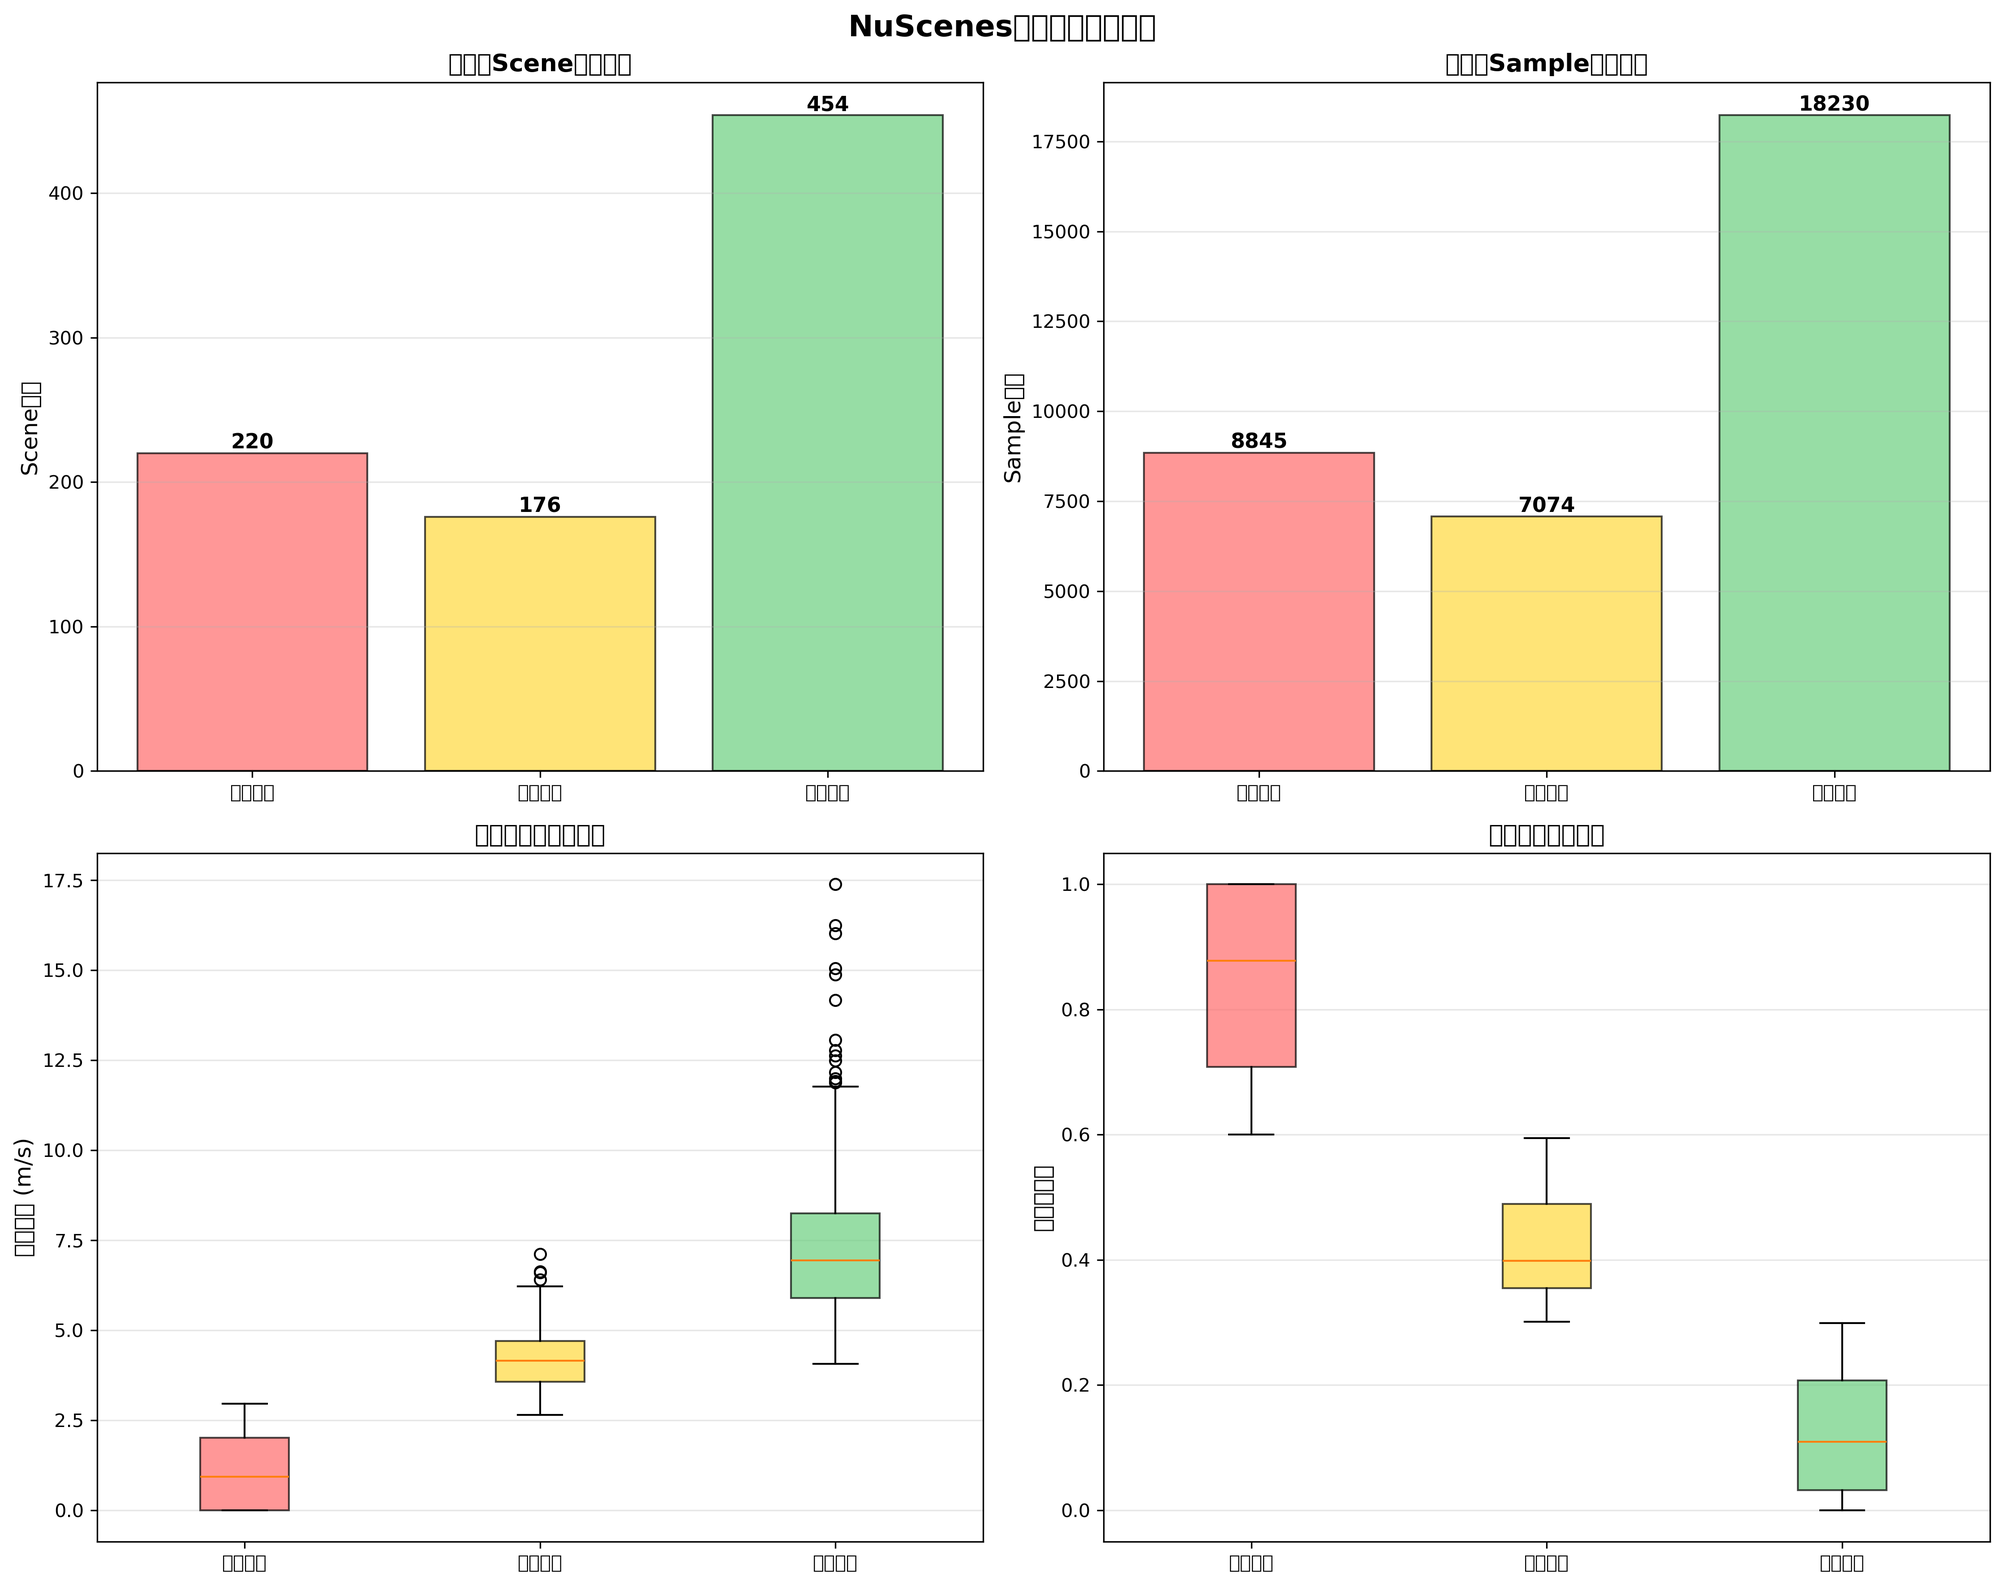
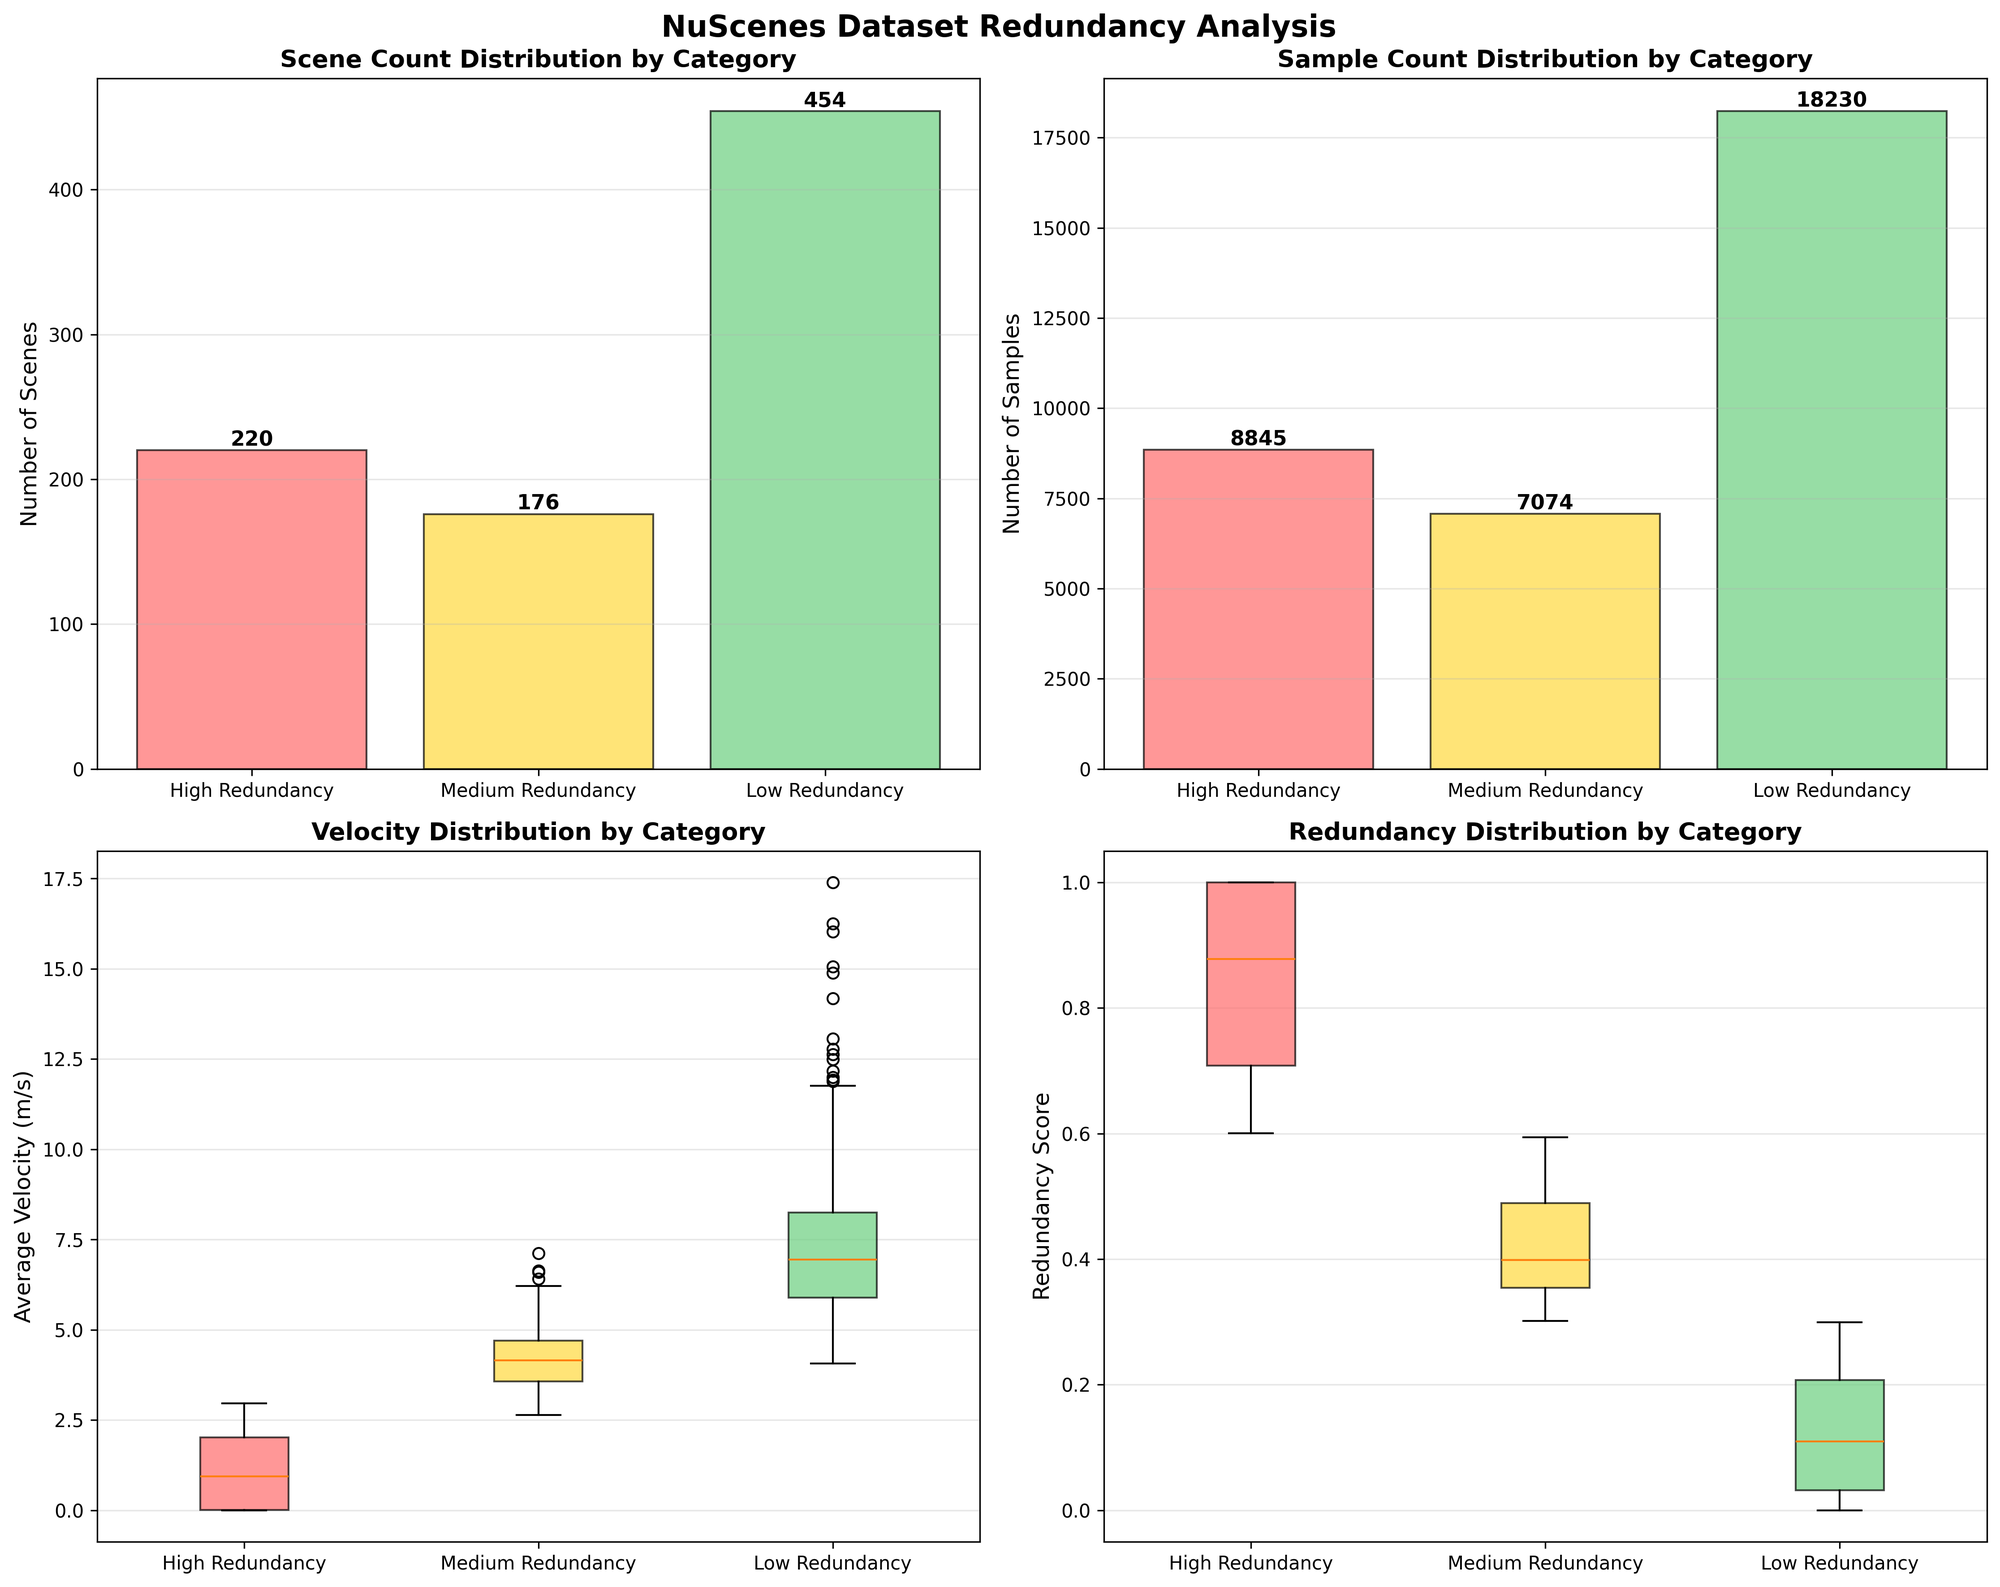
完善可视化

diff --git a/tools/visualize_redundancy.py b/tools/visualize_redundancy.py
@@ -1,7 +1,7 @@
 #!/usr/bin/env python3
 # -*- coding: utf-8 -*-
 """
-可视化NuScenes数据集的冗余度分析结果
+Visualize NuScenes dataset redundancy analysis results
 """
 
 import pickle
@@ -12,20 +12,20 @@ import matplotlib.pyplot as plt
 from matplotlib import rcParams
 import argparse
 
-# 设置中文字体
-rcParams['font.sans-serif'] = ['SimHei', 'DejaVu Sans']
+# Set font
+rcParams['font.sans-serif'] = ['DejaVu Sans', 'Arial']
 rcParams['axes.unicode_minus'] = False
 
 
 def load_split_result(result_path: str):
     """
-    加载划分结果
+    Load split result
     
     Args:
-        result_path: 结果文件路径（pkl或json）
+        result_path: Result file path (pkl or json)
         
     Returns:
-        划分结果字典
+        Split result dictionary
     """
     if result_path.endswith('.pkl'):
         with open(result_path, 'rb') as f:
@@ -34,46 +34,46 @@ def load_split_result(result_path: str):
         with open(result_path, 'r') as f:
             return json.load(f)
     else:
-        raise ValueError("不支持的文件格式，请使用.pkl或.json文件")
+        raise ValueError("Unsupported file format, please use .pkl or .json file")
 
 
 def plot_redundancy_distribution(split_result: dict, output_dir: str):
     """
-    绘制冗余度分布图
+    Plot redundancy distribution
     
     Args:
-        split_result: 划分结果
-        output_dir: 输出目录
+        split_result: Split result
+        output_dir: Output directory
     """
     fig, axes = plt.subplots(2, 2, figsize=(15, 12))
-    fig.suptitle('NuScenes数据集冗余度分析', fontsize=16, fontweight='bold')
+    fig.suptitle('NuScenes Dataset Redundancy Analysis', fontsize=16, fontweight='bold')
     
-    # 1. 各类别的scene数量分布
+    # 1. Scene count distribution by category
     ax1 = axes[0, 0]
-    categories = ['高冗余度', '中冗余度', '低冗余度']
+    categories = ['High Redundancy', 'Medium Redundancy', 'Low Redundancy']
     keys = ['high_redundancy', 'medium_redundancy', 'low_redundancy']
     scene_counts = [len(split_result[k]) for k in keys]
     colors = ['#ff6b6b', '#ffd93d', '#6bcf7f']
     
     bars = ax1.bar(categories, scene_counts, color=colors, alpha=0.7, edgecolor='black')
-    ax1.set_ylabel('Scene数量', fontsize=12)
-    ax1.set_title('各类别Scene数量分布', fontsize=13, fontweight='bold')
+    ax1.set_ylabel('Number of Scenes', fontsize=12)
+    ax1.set_title('Scene Count Distribution by Category', fontsize=13, fontweight='bold')
     ax1.grid(axis='y', alpha=0.3)
     
-    # 在柱子上添加数值
+    # Add count labels on bars
     for bar, count in zip(bars, scene_counts):
         height = bar.get_height()
         ax1.text(bar.get_x() + bar.get_width()/2., height,
                 f'{count}',
                 ha='center', va='bottom', fontsize=11, fontweight='bold')
     
-    # 2. 各类别的sample数量分布
+    # 2. Sample count distribution by category
     ax2 = axes[0, 1]
     sample_counts = [sum(s['num_samples'] for s in split_result[k]) for k in keys]
     
     bars = ax2.bar(categories, sample_counts, color=colors, alpha=0.7, edgecolor='black')
-    ax2.set_ylabel('Sample数量', fontsize=12)
-    ax2.set_title('各类别Sample数量分布', fontsize=13, fontweight='bold')
+    ax2.set_ylabel('Number of Samples', fontsize=12)
+    ax2.set_title('Sample Count Distribution by Category', fontsize=13, fontweight='bold')
     ax2.grid(axis='y', alpha=0.3)
     
     for bar, count in zip(bars, sample_counts):
@@ -82,7 +82,7 @@ def plot_redundancy_distribution(split_result: dict, output_dir: str):
                 f'{count}',
                 ha='center', va='bottom', fontsize=11, fontweight='bold')
     
-    # 3. 平均速率分布
+    # 3. Average velocity distribution
     ax3 = axes[1, 0]
     velocities_by_category = []
     for key in keys:
@@ -94,11 +94,11 @@ def plot_redundancy_distribution(split_result: dict, output_dir: str):
         patch.set_facecolor(color)
         patch.set_alpha(0.7)
     
-    ax3.set_ylabel('平均速率 (m/s)', fontsize=12)
-    ax3.set_title('各类别平均速率分布', fontsize=13, fontweight='bold')
+    ax3.set_ylabel('Average Velocity (m/s)', fontsize=12)
+    ax3.set_title('Velocity Distribution by Category', fontsize=13, fontweight='bold')
     ax3.grid(axis='y', alpha=0.3)
     
-    # 4. 冗余度分布
+    # 4. Redundancy score distribution
     ax4 = axes[1, 1]
     redundancies_by_category = []
     for key in keys:
@@ -110,29 +110,29 @@ def plot_redundancy_distribution(split_result: dict, output_dir: str):
         patch.set_facecolor(color)
         patch.set_alpha(0.7)
     
-    ax4.set_ylabel('冗余度分数', fontsize=12)
-    ax4.set_title('各类别冗余度分布', fontsize=13, fontweight='bold')
+    ax4.set_ylabel('Redundancy Score', fontsize=12)
+    ax4.set_title('Redundancy Distribution by Category', fontsize=13, fontweight='bold')
     ax4.grid(axis='y', alpha=0.3)
     
     plt.tight_layout()
     output_path = os.path.join(output_dir, 'redundancy_distribution.png')
     plt.savefig(output_path, dpi=300, bbox_inches='tight')
-    print(f"已保存分布图: {output_path}")
+    print(f"Saved distribution plot: {output_path}")
     plt.close()
 
 
 def plot_velocity_histogram(split_result: dict, output_dir: str):
     """
-    绘制速率直方图
+    Plot velocity histogram
     
     Args:
-        split_result: 划分结果
-        output_dir: 输出目录
+        split_result: Split result
+        output_dir: Output directory
     """
     fig, ax = plt.subplots(figsize=(12, 6))
     
     keys = ['high_redundancy', 'medium_redundancy', 'low_redundancy']
-    labels = ['高冗余度', '中冗余度', '低冗余度']
+    labels = ['High Redundancy', 'Medium Redundancy', 'Low Redundancy']
     colors = ['#ff6b6b', '#ffd93d', '#6bcf7f']
     
     all_velocities = []
@@ -141,31 +141,31 @@ def plot_velocity_histogram(split_result: dict, output_dir: str):
         all_velocities.extend(velocities)
         ax.hist(velocities, bins=30, alpha=0.6, label=label, color=color, edgecolor='black')
     
-    ax.set_xlabel('平均速率 (m/s)', fontsize=12)
-    ax.set_ylabel('Scene数量', fontsize=12)
-    ax.set_title('各类别速率分布直方图', fontsize=14, fontweight='bold')
+    ax.set_xlabel('Average Velocity (m/s)', fontsize=12)
+    ax.set_ylabel('Number of Scenes', fontsize=12)
+    ax.set_title('Velocity Distribution Histogram by Category', fontsize=14, fontweight='bold')
     ax.legend(fontsize=11)
     ax.grid(axis='y', alpha=0.3)
     
     plt.tight_layout()
     output_path = os.path.join(output_dir, 'velocity_histogram.png')
     plt.savefig(output_path, dpi=300, bbox_inches='tight')
-    print(f"已保存速率直方图: {output_path}")
+    print(f"Saved velocity histogram: {output_path}")
     plt.close()
 
 
 def plot_redundancy_scatter(split_result: dict, output_dir: str):
     """
-    绘制速率-冗余度散点图
+    Plot velocity-redundancy scatter plot
     
     Args:
-        split_result: 划分结果
-        output_dir: 输出目录
+        split_result: Split result
+        output_dir: Output directory
     """
     fig, ax = plt.subplots(figsize=(12, 8))
     
     keys = ['high_redundancy', 'medium_redundancy', 'low_redundancy']
-    labels = ['高冗余度', '中冗余度', '低冗余度']
+    labels = ['High Redundancy', 'Medium Redundancy', 'Low Redundancy']
     colors = ['#ff6b6b', '#ffd93d', '#6bcf7f']
     
     for key, label, color in zip(keys, labels, colors):
@@ -173,15 +173,15 @@ def plot_redundancy_scatter(split_result: dict, output_dir: str):
         redundancies = [s['avg_redundancy'] for s in split_result[key]]
         sizes = [s['num_samples'] for s in split_result[key]]
         
-        # 归一化size用于显示
-        sizes_normalized = [s * 2 for s in sizes]  # 调整大小以便可视化
+        # Normalize size for visualization
+        sizes_normalized = [s * 2 for s in sizes]
         
         ax.scatter(velocities, redundancies, s=sizes_normalized, alpha=0.6,
                   label=label, color=color, edgecolors='black', linewidth=0.5)
     
-    ax.set_xlabel('平均速率 (m/s)', fontsize=12)
-    ax.set_ylabel('冗余度分数', fontsize=12)
-    ax.set_title('速率-冗余度关系图\n(气泡大小表示sample数量)', 
+    ax.set_xlabel('Average Velocity (m/s)', fontsize=12)
+    ax.set_ylabel('Redundancy Score', fontsize=12)
+    ax.set_title('Velocity-Redundancy Relationship\n(Bubble size indicates sample count)', 
                 fontsize=14, fontweight='bold')
     ax.legend(fontsize=11)
     ax.grid(True, alpha=0.3)
@@ -189,61 +189,61 @@ def plot_redundancy_scatter(split_result: dict, output_dir: str):
     plt.tight_layout()
     output_path = os.path.join(output_dir, 'redundancy_scatter.png')
     plt.savefig(output_path, dpi=300, bbox_inches='tight')
-    print(f"已保存散点图: {output_path}")
+    print(f"Saved scatter plot: {output_path}")
     plt.close()
 
 
 def plot_pie_charts(split_result: dict, output_dir: str):
     """
-    绘制饼图
+    Plot pie charts
     
     Args:
-        split_result: 划分结果
-        output_dir: 输出目录
+        split_result: Split result
+        output_dir: Output directory
     """
     fig, axes = plt.subplots(1, 2, figsize=(14, 6))
     
     keys = ['high_redundancy', 'medium_redundancy', 'low_redundancy']
-    labels = ['高冗余度', '中冗余度', '低冗余度']
+    labels = ['High Redundancy', 'Medium Redundancy', 'Low Redundancy']
     colors = ['#ff6b6b', '#ffd93d', '#6bcf7f']
     
-    # Scene数量饼图
+    # Scene count pie chart
     scene_counts = [len(split_result[k]) for k in keys]
     axes[0].pie(scene_counts, labels=labels, colors=colors, autopct='%1.1f%%',
                startangle=90, textprops={'fontsize': 11})
-    axes[0].set_title('Scene数量占比', fontsize=13, fontweight='bold')
+    axes[0].set_title('Scene Count Distribution', fontsize=13, fontweight='bold')
     
-    # Sample数量饼图
+    # Sample count pie chart
     sample_counts = [sum(s['num_samples'] for s in split_result[k]) for k in keys]
     axes[1].pie(sample_counts, labels=labels, colors=colors, autopct='%1.1f%%',
                startangle=90, textprops={'fontsize': 11})
-    axes[1].set_title('Sample数量占比', fontsize=13, fontweight='bold')
+    axes[1].set_title('Sample Count Distribution', fontsize=13, fontweight='bold')
     
     plt.tight_layout()
     output_path = os.path.join(output_dir, 'redundancy_pie_charts.png')
     plt.savefig(output_path, dpi=300, bbox_inches='tight')
-    print(f"已保存饼图: {output_path}")
+    print(f"Saved pie charts: {output_path}")
     plt.close()
 
 
 def print_statistics(split_result: dict):
     """
-    打印统计信息
+    Print statistics
     
     Args:
-        split_result: 划分结果
+        split_result: Split result
     """
     print("\n" + "=" * 80)
-    print("数据集划分统计")
+    print("Dataset Split Statistics")
     print("=" * 80)
     
     keys = ['high_redundancy', 'medium_redundancy', 'low_redundancy']
-    labels = ['高冗余度', '中冗余度', '低冗余度']
+    labels = ['High Redundancy', 'Medium Redundancy', 'Low Redundancy']
     
     total_scenes = sum(len(split_result[k]) for k in keys)
     total_samples = sum(sum(s['num_samples'] for s in split_result[k]) for k in keys)
     
-    print(f"\n总计: {total_scenes} scenes, {total_samples} samples\n")
+    print(f"\nTotal: {total_scenes} scenes, {total_samples} samples\n")
     
     for key, label in zip(keys, labels):
         scenes = split_result[key]
@@ -258,54 +258,54 @@ def print_statistics(split_result: dict):
         print(f"  Samples: {num_samples} ({num_samples/total_samples*100:.1f}%)")
         
         if velocities:
-            print(f"  速率统计:")
-            print(f"    平均: {np.mean(velocities):.2f} m/s")
-            print(f"    中位数: {np.median(velocities):.2f} m/s")
-            print(f"    标准差: {np.std(velocities):.2f} m/s")
-            print(f"    范围: [{np.min(velocities):.2f}, {np.max(velocities):.2f}] m/s")
+            print(f"  Velocity Stats:")
+            print(f"    Mean: {np.mean(velocities):.2f} m/s")
+            print(f"    Median: {np.median(velocities):.2f} m/s")
+            print(f"    Std: {np.std(velocities):.2f} m/s")
+            print(f"    Range: [{np.min(velocities):.2f}, {np.max(velocities):.2f}] m/s")
         
         if redundancies:
-            print(f"  冗余度统计:")
-            print(f"    平均: {np.mean(redundancies):.3f}")
-            print(f"    中位数: {np.median(redundancies):.3f}")
-            print(f"    标准差: {np.std(redundancies):.3f}")
-            print(f"    范围: [{np.min(redundancies):.3f}, {np.max(redundancies):.3f}]")
+            print(f"  Redundancy Stats:")
+            print(f"    Mean: {np.mean(redundancies):.3f}")
+            print(f"    Median: {np.median(redundancies):.3f}")
+            print(f"    Std: {np.std(redundancies):.3f}")
+            print(f"    Range: [{np.min(redundancies):.3f}, {np.max(redundancies):.3f}]")
         print()
 
 
 def main():
-    """主函数"""
+    """Main function"""
     parser = argparse.ArgumentParser(
-        description='可视化NuScenes数据集冗余度分析结果'
+        description='Visualize NuScenes dataset redundancy analysis results'
     )
     parser.add_argument(
         '--result-path',
         type=str,
         default='/data2/file_swap/sh_space/nuscenes_NewSplit/redundancy_split/redundancy_split.pkl',
-        help='划分结果文件路径（.pkl或.json）'
+        help='Split result file path (.pkl or .json)'
     )
     parser.add_argument(
         '--output-dir',
         type=str,
         default='/data2/file_swap/sh_space/nuscenes_NewSplit/redundancy_split',
-        help='可视化结果输出目录'
+        help='Visualization output directory'
     )
     
     args = parser.parse_args()
     
     print("=" * 80)
-    print("NuScenes数据集冗余度可视化")
+    print("NuScenes Dataset Redundancy Visualization")
     print("=" * 80)
     
-    # 加载结果
-    print(f"\n加载划分结果: {args.result_path}")
+    # Load result
+    print(f"\nLoading split result: {args.result_path}")
     split_result = load_split_result(args.result_path)
     
-    # 打印统计信息
+    # Print statistics
     print_statistics(split_result)
     
-    # 生成可视化
-    print("\n生成可视化图表...")
+    # Generate visualizations
+    print("\nGenerating visualization plots...")
     os.makedirs(args.output_dir, exist_ok=True)
     
     plot_redundancy_distribution(split_result, args.output_dir)
@@ -314,7 +314,7 @@ def main():
     plot_pie_charts(split_result, args.output_dir)
     
     print("\n" + "=" * 80)
-    print("可视化完成！")
+    print("Visualization completed!")
     print("=" * 80)
 
 
